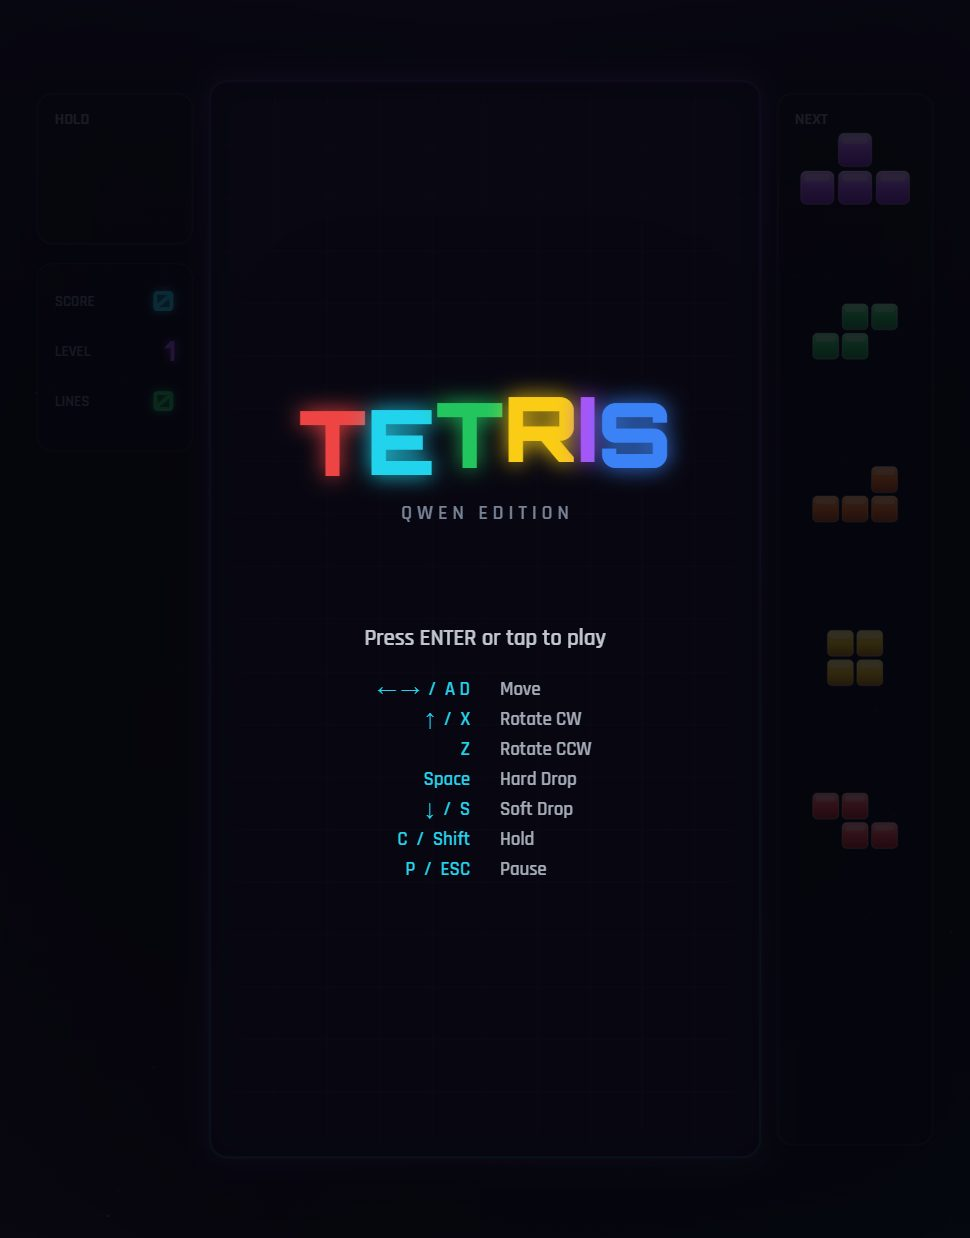
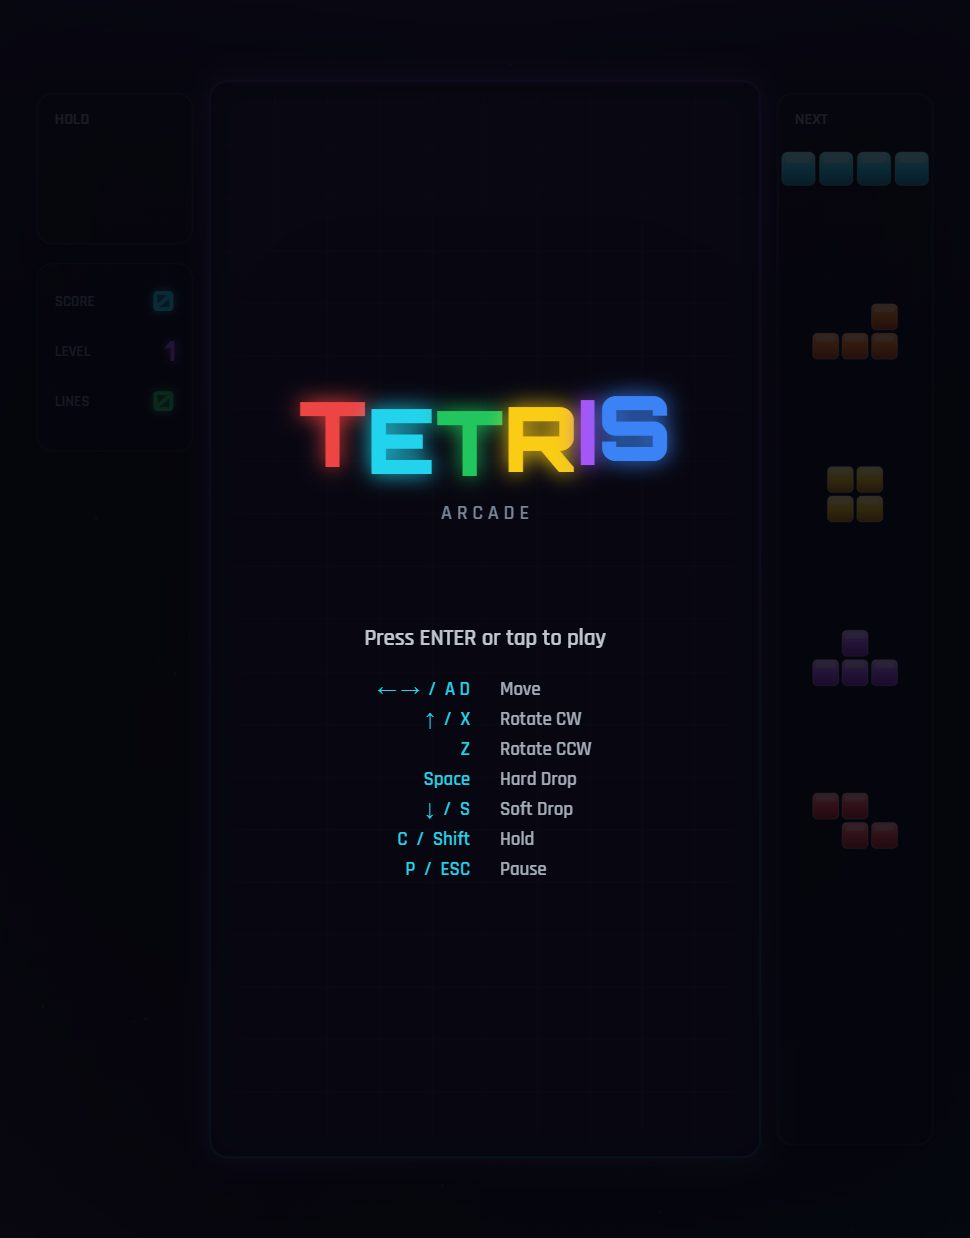
chore: update app title and package metadata

diff --git a/index.html b/index.html
@@ -4,7 +4,7 @@
     <meta charset="UTF-8" />
     <meta name="viewport" content="width=device-width, initial-scale=1.0, maximum-scale=1.0, user-scalable=no" />
     <meta name="theme-color" content="#0a0a14" />
-    <title>TETRIS · Qwen Edition</title>
+    <title>TETRIS</title>
     <link rel="preconnect" href="https://fonts.googleapis.com" />
     <link rel="preconnect" href="https://fonts.gstatic.com" crossorigin />
     <link

diff --git a/src/game/renderer.ts b/src/game/renderer.ts
@@ -581,7 +581,7 @@ export class Renderer {
     ctx.fillStyle = "rgba(148,163,184,0.8)";
     ctx.font = "600 16px Rajdhani, sans-serif";
     ctx.textAlign = "center";
-    ctx.fillText("Q W E N   E D I T I O N", cx, cy + 40);
+    ctx.fillText("A R C A D E", cx, cy + 40);
   }
 
   private drawControls(cx: number, cy: number): void {

diff --git a/README.md b/README.md
@@ -1,4 +1,4 @@
-# TETRIS · Qwen Edition
+# TETRIS
 
 A modern, polished Tetris built with **TypeScript + Vite + HTML5 Canvas**. No game
 frameworks, no external assets — everything (graphics, particles, sound) is generated
